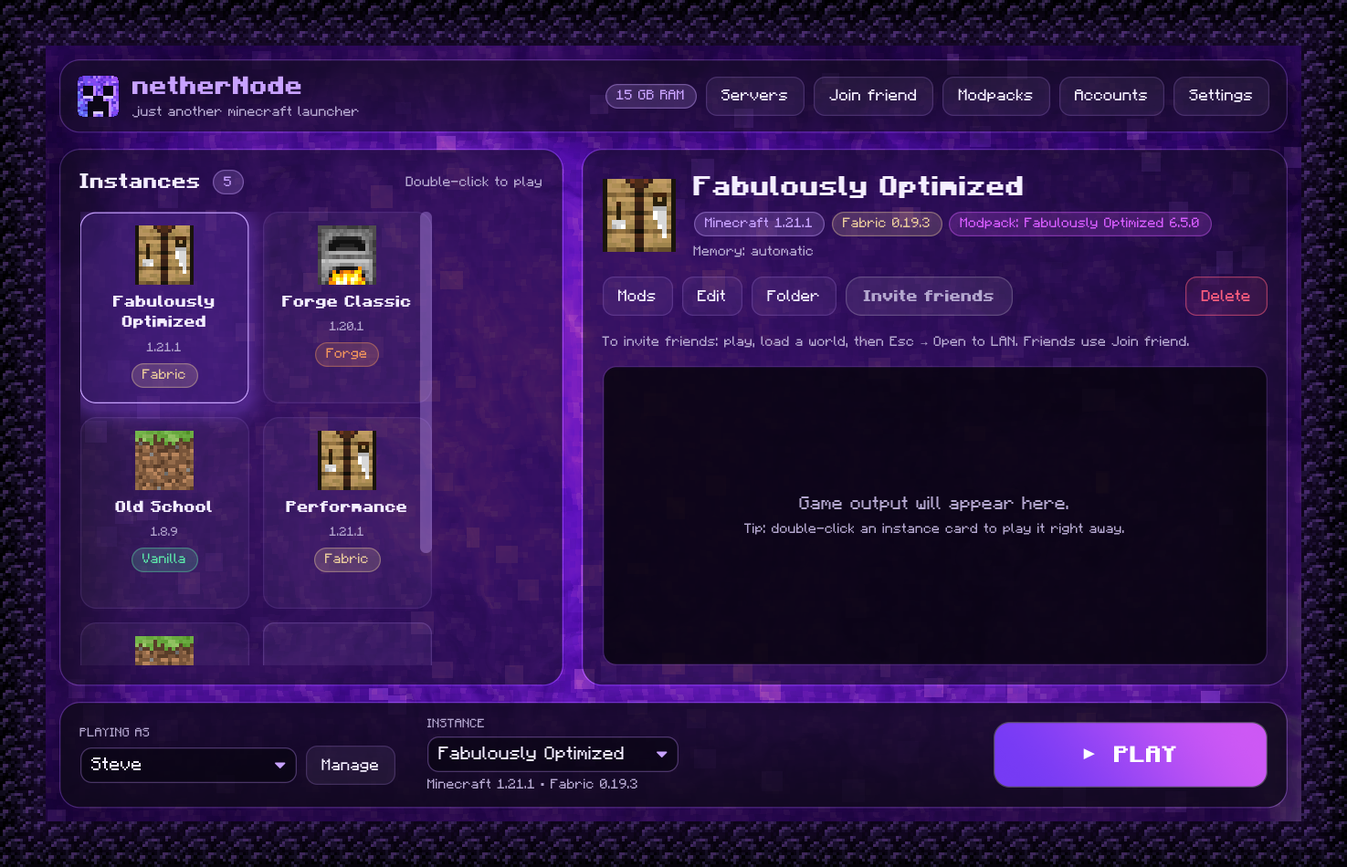
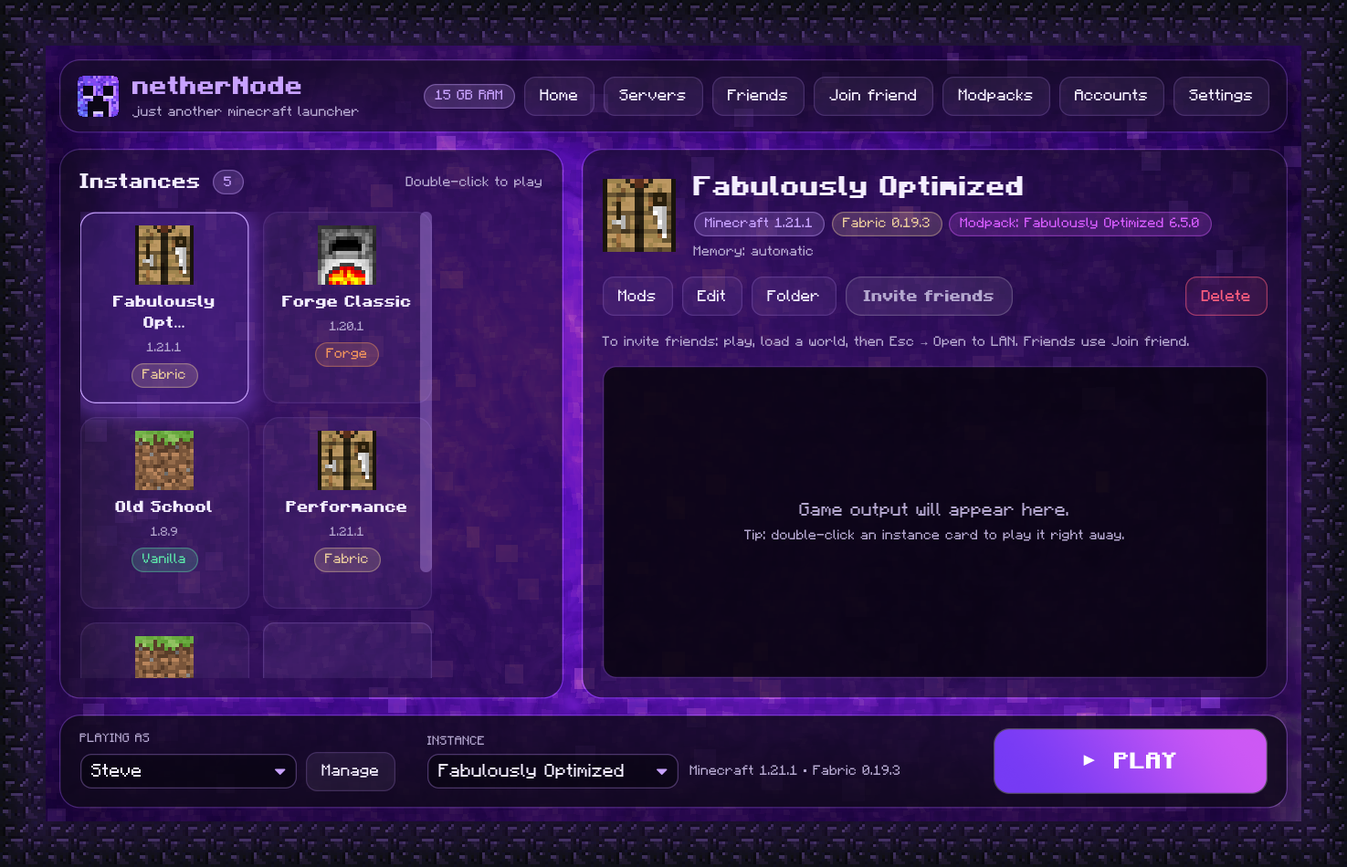
README and roadmap for 1.2; new screenshots

diff --git a/ROADMAP.md b/ROADMAP.md
@@ -2,6 +2,7 @@
 
 An offline-accounts Minecraft launcher for Linux, macOS and Windows, written in Rust:
 `crates/core` (library), `crates/cli` (`nethernode`) and `crates/gui` (`nethernode-gui`, iced).
+Current release: **1.2.0**.
 
 ## Ground rules
 
@@ -9,113 +10,116 @@ An offline-accounts Minecraft launcher for Linux, macOS and Windows, written in 
 - **No CurseForge.** Modrinth is the only source for mods and modpacks.
 - **Never ship Mojang's files or art.** Game jars, assets and textures are downloaded or read at runtime.
 - **Cross-platform:** every feature has to work on Linux (any distro), macOS (Intel and Apple Silicon) and Windows (x64 and ARM).
-- **Light on low-end machines:** memory is sized to the machine, and the GUI uses the CPU renderer and a static background at 8 GB of RAM or less.
+- **Light on low-end machines:** memory is sized to the machine, and the GUI uses the CPU renderer and a static background at 4 GB of RAM or less.
+- **License:** GPL-3.0-or-later. Third-party pieces keep their licenses (fonts: OFL and public domain; authlib-injector: AGPL-3.0, downloaded at runtime, never bundled).
 
 ## Done
 
+### Playing
+
 | Area | What works | Verified |
 |---|---|---|
-| Launching | Version manifest, libraries, natives, assets, Mojang Java runtimes (x86-64 under emulation on ARM), launch arguments, offline UUIDs | 1.8.9, 1.12.2, 1.16.5, 1.20.1, 26.3 on Linux |
+| Launching | Version manifest, libraries, natives, assets, Mojang Java runtimes (x86-64 under emulation on ARM), launch arguments, offline UUIDs | 1.8.9, 1.12.2, 1.16.5, 1.20.1, 1.21.1, 26.3 on Linux; also played on Windows |
+| Windows command lines | Long launches (big modpacks) use a Java argument file (Java 9+) or move the classpath to `CLASSPATH` (Java 8), avoiding the 32,767-character limit | NeoForge 1.21.1 and Forge 1.12.2 through both paths |
 | Memory | Heap sized from total and free RAM, G1 flags, low-end `options.txt`, game stopped with the launcher | Freezes from stacked game processes gone |
-| Crashes | Crash reports, JVM `hs_err` logs and output tail turned into a cause and a fix; Java version checked before launch | Real OOM, bad heap and wrong-Java crashes |
-| Loaders | Fabric, Quilt, Forge (also pre-1.13), NeoForge; OptiFine from a user-supplied jar | All except OptiFine launched |
+| Crashes | Crash reports, JVM `hs_err` logs and output tail turned into a cause and a fix; Java version checked before launch; missing-mod hints | Real OOM, bad heap and wrong-Java crashes |
+| Window | 1280×720 by default, presets, custom size, fullscreen | Arguments checked for every version style |
+| Skins | Skins and capes per account, served by a local skin service through authlib-injector (pinned version, SHA-256 checked); one shared signing key so every netherNode trusts the others' skins; fixed port 47811 so texture URLs work on every PC; `hasJoined` lets LAN worlds and servers log offline players in with their skin | Signed profile loaded; skin downloaded in a world; Forge server join with skins |
+
+### Mods
+
+| Area | What works | Verified |
+|---|---|---|
+| Loaders | Fabric, Quilt, Forge (also pre-1.13), NeoForge; OptiFine from a jar or the one-click open-source alternative | All launched except real OptiFine |
 | Mods | Modrinth search and install with dependencies, enable/disable/remove, add jars by picker or drag & drop, identify jars by hash | Fabric + Sodium + Iris + Mod Menu |
+| Missing dependencies | Before a modded launch, every jar's metadata (`fabric.mod.json`, `quilt.mod.json`, `mods.toml`, `neoforge.mods.toml`, bundled jars) is read; required mods that are missing are installed from Modrinth, and a candidate stays only if it really provides the id. `nethernode mods check` | Sodium Extra alone → Sodium installed; no false alarms on Fabulously Optimized, Forge and NeoForge instances |
 | Modpacks | `.mrpack` import (picker or drop) and one-click Modrinth install; hidden while building, cleaned up if interrupted | Fabulously Optimized 26.2 and 1.21.1 |
-| GUI | Obsidian/violet glass over a live portal shader, instance cards, play bar, full version dropdown, loader picker, Mods/Modpacks/Accounts screens, crash cards | Screenshots of every screen, Linux |
-| Window | 1280×720 by default (Minecraft's own is 854×480), presets, custom size, fullscreen | Arguments checked for every version style |
-| Packaging | App icons (PNG/ICO/ICNS), Windows exe icon, Linux `.desktop` + installer script, macOS `.app` script, CI workflow | Cross-compiles for 6 targets; CI not yet run |
 
-## Play with friends (done)
+### Together
 
-Invite friends / Join friend tunnel a LAN world over the internet with iroh: QUIC with TLS 1.3, NAT hole punching, and a relay fallback over HTTPS for CGNAT. The join code carries a random secret, the host approves each friend, and the joiner sees the world in Minecraft's LAN list. Verified on this machine: direct about 0 ms, relay-only 162 ms round trip (n0's public relays are in the US/EU).
+| Area | What works | Verified |
+|---|---|---|
+| Invite friends / Join friend | iroh tunnel (QUIC, TLS 1.3, hole punching, relay fallback over HTTPS); four-word codes resolved through iroh's lookup service, full codes still work; host approves each new player; LAN-list announcement on the joiner's side | Direct ≈0 ms, relay-only 162 ms round trip |
+| LAN world detection | Port read from the log in every version's wording, or found from Minecraft's own LAN announcement | Unit tests for each wording; announcement test |
+| Tunnel v3 | Several shares at once, each with its own code; extra TCP ports; UDP over QUIC datagrams (game port and mod ports, e.g. Simple Voice Chat, found automatically); the host's mod list | Echo servers through the tunnel |
+| Mod sync | Joiners of a modded world or server get *Get the same mods*: loader plus every mod, from Modrinth or from the host over the tunnel, SHA-1 checked | 6 mods, one not on Modrinth |
+| Friends | Lasting identity per install (`identity.key`); friends add each other with a four-word friend code; presence every 20 s over ALPN `nethernode/friends/1`; friends see what each other shares and join with one click, let in without the Allow prompt | Two data folders on one PC |
+| Skins between friends | Joiners send their skins, the host sends everyone's and passes on new ones | Two data folders on one PC |
 
-Short codes: the host gets four everyday words (for example `maple-orbit-tunnel-frog`) that are easy to read out loud. The full code is published under a key derived from the words on iroh's public lookup service; the friend's app looks it up. Full codes still work.
+### Servers on this PC
 
-**Next:** self-hosted relay option (for example a small server in India) to cut relay latency; show "direct" vs "relay" in the banner.
+| Area | What works | Verified |
+|---|---|---|
+| Kinds | Vanilla, Fabric, Paper, Forge and NeoForge (official installer with `--installServer`, finished by netherNode's processor runner when a checksum is too strict, as on Fedora's zlib-ng) | Each kind started; Forge 1.20.1 joined by a real client |
+| From an instance | Same version, loader and mods; client-only mods left out (Modrinth `server_side: unsupported`, `fabric.mod.json` `environment: client`); configs copied | Forge 1.20.1 instance → server |
+| Running | Several at once on their own ports; console with commands; graceful stop; desktop notification when ready | Each server alone; two at once not yet tested |
+| Settings | MOTD, players, game mode, difficulty, PvP, whitelist (offline UUIDs), memory, skins, extra ports, and every other `server.properties` entry | Written to `server.properties` (unit tests) |
+| Multiplayer list | Each server is added to `servers.dat` of every instance with the same version (and loader), as "*name* (this PC)" | Shown in the game's Multiplayer screen |
+| Skins | Online mode against the local skin service when skins are on (players need netherNode); offline mode when off | Forge server join with skins |
 
-## Friends, modded multiplayer, servers (1.2)
+### App
 
-- **Friends:** each install has a lasting identity (`identity.key`); friends add each other with a four-word friend code published on iroh's lookup service. Their netherNodes check on each other every 20 s over iroh (ALPN `nethernode/friends/1`), sharing what each is hosting; friends join without codes or approval. Verified between two data folders on one PC.
-- **Tunnel v3:** extra TCP ports, UDP over QUIC datagrams (the game port's UDP plus extra ports, e.g. Simple Voice Chat), and the host's mod list. Verified with echo servers.
-- **Mod sync:** the host's loader and mods (SHA-1 each); the joiner gets Modrinth files from Modrinth and the rest from the host over the tunnel, every file checked. Verified with 6 mods, one not on Modrinth.
-- **Servers:** Forge/NeoForge via the official installer (`--installServer`), finished with netherNode's processor runner when a checksum is too strict (Fedora's zlib-ng); from an instance with client-only mods left out (Modrinth `server_side` and `fabric.mod.json` `environment`); skins via online mode against the local skin service; added to every matching instance's `servers.dat`. Verified: Forge 1.20.1 server from an instance, client joined with skins.
-- **Windows long command lines:** Java 9+ get an argument file, Java 8 the classpath in `CLASSPATH`. Verified on NeoForge 1.21.1 and Forge 1.12.2.
+| Area | What works |
+|---|---|
+| GUI | Obsidian/violet glass over a live portal shader, Minecraft-style font, instance cards with block icons from the game (netherNode's own pixel art before any download), play bar, Home/Servers/Friends/Join friend/Modpacks/Accounts/Settings |
+| Instances | Create, edit, rename (unique, case-insensitive), delete; long names clipped so buttons stay on screen |
+| Settings | Data, instances and servers folders (moved safely, also on Windows), renderer, animated background, skins |
+| Packaging | Windows zip, macOS universal `.dmg`/`.zip`, Linux tar.gz with installer; release notes and license in every package; CI on Linux per push and the full matrix on demand |
 
-**Next:** see what fails on Windows with specific mods (needs the crash report); Quilt servers; server mod updates.
+## What's next
 
-## Skins (done)
+### 1. High priority
 
-Custom skins and capes per account (Accounts screen or `nethernode account skin`). A local skin service plus authlib-injector (open source, downloaded at a pinned version and checked by SHA-256, never bundled) shows them in game, and Invite friends exchanges skins between friends. Nothing logs in anywhere. Verified: the game loads the signed profile, LAN-style logins pass through the local `hasJoined`, and a real client downloaded its custom skin in a world.
+1. **Windows mod-specific failures.** Some mods work on Linux but not Windows (reported with a Call of Duty mod). Needs the crash report to find the cause.
+2. **Real-world tests between two PCs:** voice chat through the tunnel, joining from the friends list, *Get the same mods* with a large pack over the relay.
+3. **Mod updates.** "Updates available" on the Mods screen: newest compatible version per mod, update one or all, keep enabled/disabled state. The same for server mods.
+4. **Self-updater.** Check GitHub Releases, verify a signature, replace the binary.
+5. **Code signing.** Windows: SignPath (free, needs a public repo), Certum open-source certificate or an OV certificate; or the Microsoft Store (free registration, signs MSIX). macOS: Apple Developer Program for signing and notarization.
+6. **Installers:** Windows installer (MSI/NSIS or MSIX for the Store), Linux AppImage/Flatpak.
 
-All installs sign skin data with one shared key built into the app (Minecraft only shows other players' skins it can verify, and authlib-injector trusts a single key). It's public on purpose: it only vouches for textures served from 127.0.0.1, and the skin service listens on a fixed port (47811) so texture URLs work on every PC.
+### 2. Multiplayer
 
-**Next:** skins on netherNode-hosted servers (they run in offline mode, so players there get default skins).
+1. Self-hosted relay option (for example a small server in India) to cut relay latency; show "direct" vs "relay" in the banner.
+2. Quilt servers (Quilt instances currently can't make a server).
+3. Friends: groups, nicknames, "invite to my world" notifications, sharing a server with friends automatically when it starts.
+4. An "AuthMe" helper for Paper servers that let in players without netherNode.
+5. Plugin browser for Paper (Modrinth plugins) and a mods browser for modded servers.
+6. Automatic world backups for servers and instances.
 
-## Servers on this PC (done)
+### 3. Instance management
 
-Vanilla, Fabric and Paper servers with a console, graceful stop (saves the world), settings, an offline-UUID whitelist, world import, "Play on it" (quick-join) and Invite friends through the same tunnel. Offline mode, with an EULA checkbox (never accepted silently). Desktop notifications for join requests (plus a taskbar flash) and server ready. Verified: each kind started, pinged through the tunnel, a real client joined (Vanilla, Paper) and stopped cleanly.
+1. Duplicate, and change the Minecraft version of an instance, with a warning about mods.
+2. Export an instance as `.mrpack`.
+3. Modpack updates that keep worlds and options.
+4. Import from Prism/MultiMC, the official launcher and TLauncher.
+5. Custom icons, search/filter and groups.
+6. Worlds tab: list, back up, restore.
 
-**Next:** Forge/NeoForge servers, mods/plugins browser for servers, automatic world backups, an "AuthMe" helper for Paper, and start-on-launch.
+### 4. More from Modrinth
 
-## What's left
-
-### 1. Before the first public release (must have)
-
-1. **Test on real Windows and macOS machines.** Everything compiles for both but has never actually run there. Check:
-   - Windows: no stray console windows, the exe icon, the console-close/stop behaviour, paths with spaces or non-English characters, the 32 KB command-line limit with big modpacks (Java `@argfiles`).
-   - macOS: the `.app` opens (Gatekeeper), Apple Silicon running Java 8/16 under Rosetta, `-XstartOnFirstThread`.
-2. **CI and releases.** The private GitHub repo runs Linux checks on each push and the full matrix on demand. Pushing a `v*` tag builds Windows, macOS (universal) and Linux and publishes a pre-release. Remaining: confirm the first release builds pass everywhere.
-3. **Settings screen.** Global defaults: memory, window size, Java path, data folder location, animation, close-launcher-on-play. Today these are per instance or hard-coded.
-4. **Mod updates.** "Updates available" on the Mods screen: compare each mod's Modrinth version with the newest compatible one and update one or all, keeping enabled/disabled state.
-5. **Self-updater.** Check GitHub Releases, verify a signature, then replace the binary (or point users to their package manager).
-6. **Installers and packages:**
-   - Windows: installer (MSI or NSIS) plus a portable zip.
-   - macOS: `.dmg`. Signing and notarization need an Apple Developer ID (paid); without it users must right-click → Open.
-   - Linux: AppImage and Flatpak, with AUR and `.deb` as nice-to-haves.
-7. **Test OptiFine with a real jar.** The install path follows HMCL's method but hasn't been tested.
-
-### 2. Instance management (should have)
-
-1. Rename, duplicate and change the Minecraft version of an instance, with a warning about mods.
-2. Export an instance as `.mrpack`, the reverse of import.
-3. Modpack updates: install a newer pack version over an instance and keep user changes (worlds, options).
-4. Import instances from Prism/MultiMC, the official launcher (`.minecraft`) and TLauncher.
-5. Custom instance icons, search/filter and groups once lists get long.
-6. Worlds tab: list saves, back up and restore, open folder.
-
-### 3. More content from Modrinth (should have)
-
-1. Resource packs and shader packs: search and install into `resourcepacks/` and `shaderpacks/`, with an "Iris needed" hint for shaders.
+1. Resource packs and shader packs into `resourcepacks/` and `shaderpacks/`, with an "Iris needed" hint.
 2. Data packs per world.
-3. Mod details panel: icon, gallery, changelog, versions to choose from.
+3. Mod details panel: icon, gallery, changelog, version picker.
 
-### 4. Polish (nice to have)
+### 5. Polish
 
-1. Logs viewer: `latest.log`, past logs and the crash report list, with search.
-2. Minecraft news panel from Mojang's public launcher news feed.
-3. Keyboard navigation, UI scaling, high-contrast option.
+1. Logs viewer with search; crash report list.
+2. Minecraft news panel.
+3. Keyboard navigation, UI scaling, high contrast.
 4. Translations, starting with English and Hindi.
 5. Remember window size and position, and the selected instance.
-6. Quick join: saved servers per instance (quick play for 1.20+, `--server` for older).
 
-### 5. Platform gaps (nice to have)
+### 6. Platform gaps
 
-1. Linux ARM64: Mojang has no ARM natives before 1.19. This needs replacement LWJGL natives, as Prism does.
-2. Download mirrors for regions where Mojang's servers are slow (e.g. BMCLAPI), as an opt-in setting.
-3. A fully offline mode test: launch already-downloaded versions with no internet at all.
+1. Linux ARM64 before 1.19: replacement LWJGL natives.
+2. Optional download mirrors for regions where Mojang's servers are slow.
+3. A fully offline test: launch downloaded versions with no internet.
 
-## Open decisions
-
-- **Skins for offline players.** Without Mojang auth, other players see default skins. Options:
-  - (a) Do nothing.
-  - (b) Bundle a client-side skin mod, such as CustomSkinLoader, into loader instances.
-  - (c) Support authlib-injector with a third-party skin server (Ely.by, self-hosted Drasl). This isn't Microsoft or Mojang, but it is still a login, so it needs your decision.
-- **Licence** for the project itself, before publishing (MIT or GPL-3.0 are typical for launchers).
-- **Name and branding check.** Make sure "netherNode" and the icon don't clash with existing projects or Mojang's brand guidelines.
-
-## Known limitations (today)
+## Known limitations
 
 - iced has no backdrop blur, so the glass effect is a translucent tint.
 - The Mods screen needs a mod loader. Vanilla and OptiFine instances can't use it.
-- Minecraft textures in the UI only appear after the first game version has downloaded. Until then the UI uses its own pixel art.
-- The first launch of a large modpack on low-end hardware can take a few minutes. That's the game loading, not the launcher.
+- With skins on, servers run in online mode against the local skin service, so players need netherNode (with skins on) to join. Turning skins off for a server lets any offline launcher in.
+- Friends need netherNode open (and internet) to show online.
+- A required mod that isn't on Modrinth for that version can't be installed automatically.
+- Players on different netherNode versions may not be able to play together when the tunnel protocol changes (1.2 can't connect to 1.1).

diff --git a/README.md b/README.md
@@ -19,27 +19,29 @@
 - **Every Minecraft version**, from old alphas to today's snapshot, straight from Mojang's list. The right Java is downloaded for you.
 - **Fits your PC.** Game memory is sized to your RAM and to what's free right now. The game opens at 1280×720 or any size you choose, and low-RAM machines get lighter settings.
 - **Helpful crash messages.** netherNode reads crash reports and Java errors and tells you the likely fix.
-- **Custom skins and capes** for offline accounts, chosen under **Accounts** (classic or slim arms). Friends who join you with netherNode get your skin too.
+- **Custom skins and capes** for offline accounts (classic or slim arms). Friends who play with you through netherNode see them too, in worlds and on your servers.
 
 **Mod**
 - **Mod loaders in one click:** Fabric, Quilt, Forge (including pre-1.13) and NeoForge. Loaders that haven't released for a version yet are greyed out.
 - **OptiFine, solved.** A one-click open-source alternative (Sodium, Iris shaders, connected textures, dynamic lights, zoom and more), or a real OptiFine jar.
-- **Mods from Modrinth**, filtered to what works with the instance, with dependencies installed automatically. Turn mods on and off, or drop `.jar` files onto the window.
-- **No more "requires mod X, which is missing".** Before a modded game starts, netherNode reads what each mod needs and installs anything missing from Modrinth.
+- **Mods from Modrinth**, filtered to what works with the instance. Turn mods on and off, or drop `.jar` files onto the window.
+- **No more "requires mod X, which is missing".** Before a modded game starts, netherNode reads what every mod needs and installs anything missing from Modrinth, including for jars you added yourself.
 - **Modpacks** from Modrinth in one click, or import `.mrpack` files.
+- **Big modpacks on Windows** start normally: long launch commands go through a file instead of hitting Windows' length limit.
 
 **Together**
-- **Play with friends over the internet.** Open your world to LAN, click *Invite friends*, and read out the four-word code (like `maple-orbit-tunnel-frog`). Your friend clicks *Join friend*, types it, and finds your world in Minecraft's LAN list. No port forwarding, works behind CGNAT, end-to-end encrypted, and you approve every friend.
+- **Play with friends over the internet.** Open your world to LAN, click *Invite friends*, and read out the four-word code (like `maple-orbit-tunnel-frog`). Your friend types it in *Join friend* and finds your world in Minecraft's LAN list. No port forwarding, works behind CGNAT, end-to-end encrypted, and you approve every new player.
 - **Friends list.** Add friends once with a four-word friend code. You see who's online and what they're sharing, and join with one click: no codes, no Allow prompts.
-- **Modded multiplayer that just works.** When you join a friend who plays with mods, netherNode offers *Get the same mods*: the same loader and mods, from Modrinth or straight from your friend.
-- **Host servers on your PC:** Vanilla, Fabric, Forge, NeoForge (mods) or Paper (plugins), several at once, each with its own code. Make one from an instance to bring its mods along. Live console, every `server.properties` setting, a whitelist, and skins. Your servers appear in Minecraft's Multiplayer list.
-- **Voice chat and other mod ports** (like Simple Voice Chat's UDP port) travel through the same tunnel.
-- **Desktop notifications** when a friend wants in or your server is ready, so you notice even in fullscreen.
+- **Modded multiplayer that just works.** Join a friend who plays with mods and netherNode offers *Get the same mods*: the same loader and mods, from Modrinth or straight from your friend, every file checked.
+- **Host servers on your PC:** Vanilla, Fabric, Forge, NeoForge (mods) or Paper (plugins). Run several at once, each with its own code. Make one from an instance to bring its mods along (game-only mods like Sodium are left out). Live console, every `server.properties` setting, a whitelist and skins. Your servers appear in Minecraft's Multiplayer list.
+- **Voice chat and other mod ports.** Mods that need their own port, like Simple Voice Chat, work through the same tunnel; Simple Voice Chat is found automatically.
+- **Desktop notifications** when someone wants in or your server is ready, so you notice even in fullscreen.
 
 **Your stuff**
 - **Bring your worlds:** import world folders or `.zip` backups into instances and servers.
 - **Your folders:** keep game files, instances and servers on any drive (Settings).
-- **A launcher that looks the part:** obsidian and violet glass over a live nether portal that pauses while you play. Textures come from your own game files; netherNode never ships Mojang's.
+- **Rename instances** any time (names stay unique).
+- **A launcher that looks the part:** obsidian and violet glass over a live nether portal, in a Minecraft-style font. Block icons come from your own game files; netherNode never ships Mojang's art.
 
 ## Screenshots
 
@@ -47,10 +49,12 @@
 |---|---|
 | ![New instance with loader picker](docs/screenshots/new.png) | ![Browse Modrinth mods](docs/screenshots/browse.png) |
 | **New instance:** any version, any loader, OptiFine alternative | **Mods:** search and install from Modrinth |
-| ![Hosting a server](docs/screenshots/servers.png) | ![Modpacks](docs/screenshots/modpacks.png) |
-| **Servers:** host on your PC and share with friends | **Modpacks:** one click, or import `.mrpack` |
+| ![Friends](docs/screenshots/friends.png) | ![Hosting a server](docs/screenshots/servers.png) |
+| **Friends:** who's online and what they share | **Servers:** Vanilla, Fabric, Forge, NeoForge, Paper |
+| ![New server from an instance](docs/screenshots/new-server.png) | ![Modpacks](docs/screenshots/modpacks.png) |
+| **New server:** based on an instance, mods included | **Modpacks:** one click, or import `.mrpack` |
 | ![Instance settings](docs/screenshots/edit.png) | ![Settings](docs/screenshots/settings.png) |
-| **Instance settings:** loader, window size, worlds, memory | **Settings:** folders, graphics |
+| **Instance settings:** name, loader, window size, worlds, memory | **Settings:** folders, graphics, skins |
 | ![Game running](docs/screenshots/playing.png) | ![Installed mods](docs/screenshots/mods.png) |
 | **Playing:** live game log, one-click stop | **Installed mods:** on/off, remove, drop jars in |
 | ![Accounts and skins](docs/screenshots/accounts.png) | |
@@ -83,19 +87,29 @@ The builds aren't code-signed yet:
 
 **Your world, while you play**
 1. Start your game and load a world. Press **Esc → Open to LAN → Start LAN World**.
-2. In netherNode, click **Invite friends** (on the instance) and tell your friend the four words it shows, or **Copy code** and send it.
-3. Your friend clicks **Join friend**, types the words, and you click **Allow** when asked. You also get a desktop notification.
-4. Your friend opens **Multiplayer**; your world is in the LAN list. They can also Direct Connect to the `localhost` address netherNode shows them.
+2. In netherNode, click **Invite friends** on the instance and tell your friend the four words it shows (or **Copy code** and send it).
+3. Your friend clicks **Join friend** and types the words. You click **Allow** (you also get a desktop notification). Friends on your list get in straight away.
+4. Your friend opens **Multiplayer**: your world is in the LAN list. They can also Direct Connect to the `localhost` address netherNode shows them.
 
 **A server, even when you're not playing**
-1. **Servers → + New server**: name, Minecraft version, Vanilla / Fabric / Forge / NeoForge / Paper, or *Based on an instance* to copy its version, loader and mods. Accept the Minecraft EULA.
-2. **Start** it. When it's ready, **Invite friends** works just like above. To play on it yourself, open Minecraft's **Multiplayer** list: it's there as "*name* (this PC)".
+1. **Servers → + New server**: pick Vanilla, Fabric, Forge, NeoForge or Paper and a Minecraft version, or choose **Based on an instance** to copy its version, loader and mods. Accept the Minecraft EULA.
+2. **Start** it, then **Invite friends**: each server gets its own code, so several can run and be shared at once.
+3. To play on it yourself, open Minecraft's **Multiplayer** list: it's there as "*name* (this PC)".
 
-**Friends list:** **Friends → Show my friend code**, and your friend types it under **Add a friend**. Once they accept, each of you sees when the other is online and what they're sharing, with a **Join** button.
+**Friends list**
+1. **Friends → Show my friend code** gives you four words (valid for about an hour).
+2. Your friend types them under **Add a friend**; you accept their request.
+3. From then on you both see when the other is online and what they're sharing, with a **Join** button. No codes or Allow prompts between friends.
 
-**Mods:** both sides need the same Minecraft version and mods. When you join a modded world or server, click **Get the same mods** and netherNode makes a matching instance, then **Play it**.
+**Mods**
 
-**How it works:** netherNode uses [iroh](https://iroh.computer). Both computers connect outwards and punch a direct path through NAT when they can; otherwise traffic goes through a relay over HTTPS that only sees encrypted data. The four words unlock the full code (the host's id and a random secret) through iroh's public lookup service, you approve each friend, and only the Minecraft port is reachable. **Copy full code** gives the long form, which works without the lookup.
+Both sides need the same Minecraft version and mods. When you join a modded world or server, netherNode shows **Get the same mods**: it makes a matching instance (mods from Modrinth, anything else from your friend), then **Play it** takes you straight in.
+
+**Voice chat and other ports**
+
+Simple Voice Chat's port is found automatically. For other mods that need a port, add it in the server's settings under *Extra ports* (for example `UDP 24454`).
+
+**How it works:** netherNode uses [iroh](https://iroh.computer). Both computers connect outwards and punch a direct path through NAT when they can; otherwise traffic goes through a relay over HTTPS that only sees encrypted data. The four words unlock the full code (the host's id and a random secret) through iroh's public lookup service, new players need your OK, and only the Minecraft port and the ports you list are reachable. **Copy full code** gives the long form, which works without the lookup. Friends are recognised by a key each netherNode keeps in its data folder.
 
 ## Command line
 
@@ -107,13 +121,19 @@ nethernode account skin Steve steve.png --slim     # a 64×64 skin PNG
 nethernode instance create survival 1.21.1
 nethernode instance create modded 1.21.1 --loader fabric --resolution 1920x1080
 nethernode mods add modded sodium                 # plus required dependencies
+nethernode mods check modded --fix                # install missing dependencies
 nethernode mods optifine-alternative modded
 nethernode modpack install fabulously-optimized
 nethernode launch survival
 
 nethernode server create smp 1.21.1 --kind paper --accept-eula
+nethernode server create modded-smp --from-instance modded --accept-eula
 nethernode server start smp --share               # prints a join code for friends
-nethernode share join maple orbit tunnel frog      # join a friend's world or server
+nethernode share host 51234 --udp 24454           # share a LAN world (and a voice chat port)
+nethernode share join maple orbit tunnel frog --get-mods "Friend's pack"
+
+nethernode friends run --code                     # stay online for friends, show your friend code
+nethernode friends add ocean candle river fox     # add a friend by their code
 ```
 
 Run `nethernode --help` for all commands.
@@ -140,7 +160,7 @@ target/release/nethernode         # the CLI
 
 The workspace has three crates:
 
-- `crates/core`: the launcher library (versions, downloads, Java, loaders, mods, modpacks, servers, sharing, crash analysis)
+- `crates/core`: the launcher library (versions, downloads, Java, loaders, mods and their dependencies, modpacks, servers, skins, sharing, friends, crash analysis)
 - `crates/cli`: the `nethernode` command
 - `crates/gui`: the `nethernode-gui` app, built with [iced](https://iced.rs)
 
@@ -148,27 +168,33 @@ Pushing a `v*` tag builds Windows, macOS and Linux releases through GitHub Actio
 
 ## FAQ
 
-**A mod needs another port (voice chat).** netherNode finds Simple Voice Chat's port by itself. For other mods, add the port in the server's settings (*Extra ports*, e.g. `UDP 24454`). Friends get it through the same tunnel.
+**Can I join online-mode servers?** No. Offline accounts work in singleplayer, LAN, servers in offline mode, netherNode's own servers, and friends' worlds through *Join friend*.
 
-**Can I join online-mode servers?** No. Offline accounts work in singleplayer, LAN, servers in offline mode (like the ones netherNode hosts), and friends' worlds through *Join friend*.
+**Can friends who don't use netherNode join me?** Your server, yes, if they can reach it (on your LAN, or with your own port forwarding) and you turn off *Show players' skins* in its settings. Playing over the internet without port forwarding needs netherNode on both sides.
 
-**Is a server in offline mode safe?** It can't check names, so anyone who gets in could use any name. netherNode only lets in friends you approve, and you can turn on a whitelist in the server's settings.
+**Is a server for offline accounts safe?** It can't check that a name belongs to someone, so anyone who gets in could pick any name. netherNode only lets in people you approve (and your friends), and you can turn on a whitelist in the server's settings.
+
+**A mod says another mod is missing.** netherNode installs missing dependencies from Modrinth before the game starts. If one isn't on Modrinth for your version, the crash message says so: get it from the mod's own page and drop the jar on the Mods screen.
+
+**A mod needs another port (voice chat).** Simple Voice Chat is found automatically. For other mods, add the port in the server's settings under *Extra ports* (for example `UDP 24454`). Friends get it through the same tunnel.
+
+**My friend joined but can't connect: "Incompatible mods" or a mod mismatch.** Both of you need the same mods. Click **Get the same mods** in the banner after joining, then **Play it**.
 
 **What about OptiFine?** Pick *OptiFine* when creating an instance. The default, *One-click alternative*, installs open-source mods that do what OptiFine does: Sodium, Iris (OptiFine shader packs work), Continuity, Entity Texture/Model Features, dynamic lights, zoom and more. OptiFine itself can't be downloaded by other apps (its author doesn't allow it), so the real thing needs a jar from optifine.net, which netherNode then installs for you.
 
-**How do skins work without a login?** netherNode runs a small skin service on your own computer and starts the game with [authlib-injector](https://github.com/yushijinhun/authlib-injector), which sends the game's skin lookups there instead of to Mojang. authlib-injector is open source (AGPL-3.0); netherNode downloads it once from its official site and checks its checksum. Turn skins off in **Settings** if you prefer.
+**How do skins work without a login?** netherNode runs a small skin service on your own computer and starts the game (and your servers) with [authlib-injector](https://github.com/yushijinhun/authlib-injector), which sends the game's skin lookups there instead of to Mojang. authlib-injector is open source (AGPL-3.0); netherNode downloads it once from its official site and checks its checksum. Turn skins off in **Settings** if you prefer.
 
-**My friend sees me with a default skin.** Both of you need netherNode 1.2 or newer with skins on (Settings), and your friend has to join through *Join friend* or your friends list, which is how your skin reaches them. On servers hosted in netherNode, skins are on by default (server settings → *Show players' skins*).
+**My friend sees me with a default skin.** You both need netherNode 1.2 or newer with skins on (Settings), and your friend has to join through *Join friend* or your friends list, which is how your skin reaches them. On servers, check *Show players' skins* in the server's settings.
 
-**Join friend says no one is sharing with that code.** Check the four words with your friend; spaces or dashes between them both work, and the first four letters of each word are enough. The words only work while your friend is sharing; a new session gives new words. If the lookup service can't be reached, ask your friend for **Copy full code** and paste that instead.
+**Join friend says no one is sharing with that code.** Check the four words with your friend; spaces or dashes both work, and the first four letters of each word are enough. The words only work while your friend is sharing; a new session gives new words. If the lookup service can't be reached, ask your friend for **Copy full code** and paste that instead.
 
-**Can friends who don't use netherNode join me?** Your server, yes, if they can reach it (on your LAN, or with your own port forwarding) and you turn off *Show players' skins* in its settings. *Invite friends* over the internet needs netherNode on both sides.
+**My friend shows as offline.** Friends show online while netherNode is open on their computer and it can reach the internet. It can take up to half a minute to update.
 
 **My computer has little RAM. Will it run?** Yes. netherNode sizes the game's memory to what your computer has and what's free, gives low-RAM machines lighter game settings, and uses a lighter launcher renderer at 4 GB or less. Close other programs before a big modpack, and see the crash message if the game runs out of memory.
 
 **The game crashed. What now?** netherNode shows the likely cause and a fix on the instance. The full log is under the instance's **Folder** (`logs/latest.log`, and `crash-reports/`).
 
-**Does netherNode collect any data?** No. It talks to Mojang (game files and Java), Modrinth (mods and modpacks), the mod loader and Paper sites (when you install those), authlib-injector's site (once, for skins) and iroh's relay and lookup services (only for *Invite friends* / *Join friend*). There are no accounts, analytics or telemetry.
+**Does netherNode collect any data?** No. It talks to Mojang (game files and Java), Modrinth (mods and modpacks), the mod loader and Paper sites (when you install those), authlib-injector's site (once, for skins) and iroh's relay and lookup services (for playing with friends and your friends list). There are no accounts, analytics or telemetry.
 
 ## Credits
 
